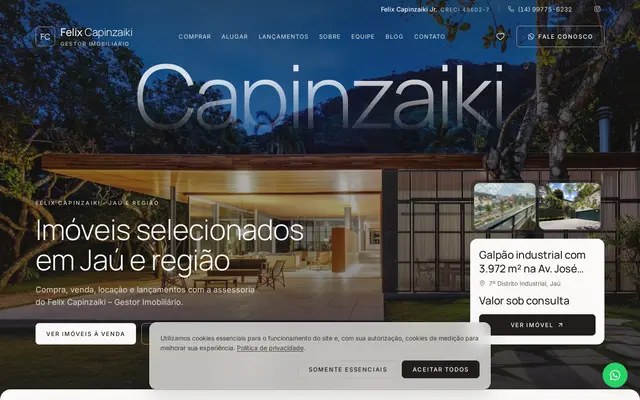
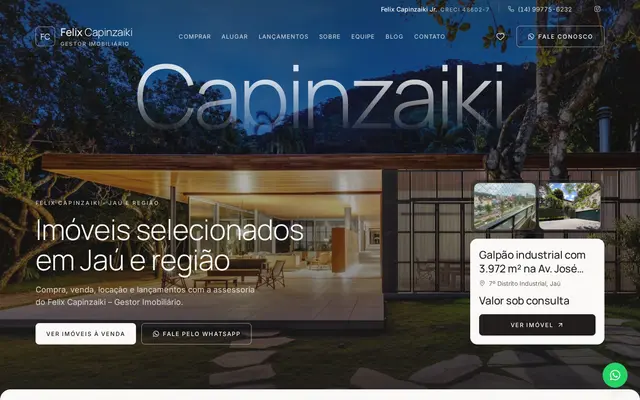
Atualiza prints e páginas do portfólio

Changed region(s): [[0.2188, 0.78, 0.7812, 0.99]]

diff --git a/assets/css/style.css b/assets/css/style.css
@@ -1,1 +1,1 @@
-*,:after,:before{--tw-border-spacing-x:0;--tw-border-spacing-y:0;--tw-translate-x:0;--tw-translate-y:0;--tw-rotate:0;--tw-skew-x:0;--tw-skew-y:0;--tw-scale-x:1;--tw-scale-y:1;--tw-pan-x: ;--tw-pan-y: ;--tw-pinch-zoom: ;--tw-scroll-snap-strictness:proximity;--tw-gradient-from-position: ;--tw-gradient-via-position: ;--tw-gradient-to-position: ;--tw-ordinal: ;--tw-slashed-zero: ;--tw-numeric-figure: ;--tw-numeric-spacing: ;--tw-numeric-fraction: ;--tw-ring-inset: ;--tw-ring-offset-width:0px;--tw-ring-offset-color:#fff;--tw-ring-color:rgba(59,130,246,.5);--tw-ring-offset-shadow:0 0 #0000;--tw-ring-shadow:0 0 #0000;--tw-shadow:0 0 #0000;--tw-shadow-colored:0 0 #0000;--tw-blur: ;--tw-brightness: ;--tw-contrast: ;--tw-grayscale: ;--tw-hue-rotate: ;--tw-invert: ;--tw-saturate: ;--tw-sepia: ;--tw-drop-shadow: ;--tw-backdrop-blur: ;--tw-backdrop-brightness: ;--tw-backdrop-contrast: ;--tw-backdrop-grayscale: ;--tw-backdrop-hue-rotate: ;--tw-backdrop-invert: ;--tw-backdrop-opacity: ;--tw-backdrop-saturate: ;--tw-backdrop-sepia: ;--tw-contain-size: ;--tw-contain-layout: ;--tw-contain-paint: ;--tw-contain-style: }::backdrop{--tw-border-spacing-x:0;--tw-border-spacing-y:0;--tw-translate-x:0;--tw-translate-y:0;--tw-rotate:0;--tw-skew-x:0;--tw-skew-y:0;--tw-scale-x:1;--tw-scale-y:1;--tw-pan-x: ;--tw-pan-y: ;--tw-pinch-zoom: ;--tw-scroll-snap-strictness:proximity;--tw-gradient-from-position: ;--tw-gradient-via-position: ;--tw-gradient-to-position: ;--tw-ordinal: ;--tw-slashed-zero: ;--tw-numeric-figure: ;--tw-numeric-spacing: ;--tw-numeric-fraction: ;--tw-ring-inset: ;--tw-ring-offset-width:0px;--tw-ring-offset-color:#fff;--tw-ring-color:rgba(59,130,246,.5);--tw-ring-offset-shadow:0 0 #0000;--tw-ring-shadow:0 0 #0000;--tw-shadow:0 0 #0000;--tw-shadow-colored:0 0 #0000;--tw-blur: ;--tw-brightness: ;--tw-contrast: ;--tw-grayscale: ;--tw-hue-rotate: ;--tw-invert: ;--tw-saturate: ;--tw-sepia: ;--tw-drop-shadow: ;--tw-backdrop-blur: ;--tw-backdrop-brightness: ;--tw-backdrop-contrast: ;--tw-backdrop-grayscale: ;--tw-backdrop-hue-rotate: ;--tw-backdrop-invert: ;--tw-backdrop-opacity: ;--tw-backdrop-saturate: ;--tw-backdrop-sepia: ;--tw-contain-size: ;--tw-contain-layout: ;--tw-contain-paint: ;--tw-contain-style: }/*! tailwindcss v3.4.17 | MIT License | https://tailwindcss.com*/*,:after,:before{box-sizing:border-box;border:0 solid #e5e7eb}:after,:before{--tw-content:""}:host,html{line-height:1.5;-webkit-text-size-adjust:100%;-moz-tab-size:4;-o-tab-size:4;tab-size:4;font-family:ui-sans-serif,system-ui,sans-serif,Apple Color Emoji,Segoe UI Emoji,Segoe UI Symbol,Noto Color Emoji;font-feature-settings:normal;font-variation-settings:normal;-webkit-tap-highlight-color:transparent}body{margin:0;line-height:inherit}hr{height:0;color:inherit;border-top-width:1px}abbr:where([title]){-webkit-text-decoration:underline dotted;text-decoration:underline dotted}h1,h2,h3,h4,h5,h6{font-size:inherit;font-weight:inherit}a{color:inherit;text-decoration:inherit}b,strong{font-weight:bolder}code,kbd,pre,samp{font-family:ui-monospace,SFMono-Regular,Menlo,Monaco,Consolas,Liberation Mono,Courier New,monospace;font-feature-settings:normal;font-variation-settings:normal;font-size:1em}small{font-size:80%}sub,sup{font-size:75%;line-height:0;position:relative;vertical-align:baseline}sub{bottom:-.25em}sup{top:-.5em}table{text-indent:0;border-color:inherit;border-collapse:collapse}button,input,optgroup,select,textarea{font-family:inherit;font-feature-settings:inherit;font-variation-settings:inherit;font-size:100%;font-weight:inherit;line-height:inherit;letter-spacing:inherit;color:inherit;margin:0;padding:0}button,select{text-transform:none}button,input:where([type=button]),input:where([type=reset]),input:where([type=submit]){-webkit-appearance:button;background-color:transparent;background-image:none}:-moz-focusring{outline:auto}:-moz-ui-invalid{box-shadow:none}progress{vertical-align:baseline}::-webkit-inner-spin-button,::-webkit-outer-spin-button{height:auto}[type=search]{-webkit-appearance:textfield;outline-offset:-2px}::-webkit-search-decoration{-webkit-appearance:none}::-webkit-file-upload-button{-webkit-appearance:button;font:inherit}summary{display:list-item}blockquote,dd,dl,figure,h1,h2,h3,h4,h5,h6,hr,p,pre{margin:0}fieldset{margin:0}fieldset,legend{padding:0}menu,ol,ul{list-style:none;margin:0;padding:0}dialog{padding:0}textarea{resize:vertical}input::-moz-placeholder,textarea::-moz-placeholder{opacity:1;color:#9ca3af}input::placeholder,textarea::placeholder{opacity:1;color:#9ca3af}[role=button],button{cursor:pointer}:disabled{cursor:default}audio,canvas,embed,iframe,img,object,svg,video{display:block;vertical-align:middle}img,video{max-width:100%;height:auto}[hidden]:where(:not([hidden=until-found])){display:none}html{scroll-padding-top:5rem}body{background-color:#fdfbf7;color:#1a3626;font-family:Outfit,sans-serif}h1,h2,h3,h4,h5,h6{font-family:Space Grotesk,sans-serif}.pointer-events-none{pointer-events:none}.fixed{position:fixed}.absolute{position:absolute}.relative{position:relative}.inset-0{inset:0}.-bottom-1{bottom:-.25rem}.-left-24{left:-6rem}.-top-24{top:-6rem}.bottom-0{bottom:0}.left-0{left:0}.left-4{left:1rem}.right-0{right:0}.top-0{top:0}.top-10{top:2.5rem}.top-4{top:1rem}.z-10{z-index:10}.z-20{z-index:20}.z-50{z-index:50}.mx-auto{margin-left:auto;margin-right:auto}.-mr-2{margin-right:-.5rem}.-mt-10{margin-top:-2.5rem}.mb-10{margin-bottom:2.5rem}.mb-12{margin-bottom:3rem}.mb-16{margin-bottom:4rem}.mb-2{margin-bottom:.5rem}.mb-3{margin-bottom:.75rem}.mb-4{margin-bottom:1rem}.mb-6{margin-bottom:1.5rem}.mb-8{margin-bottom:2rem}.ml-4{margin-left:1rem}.mt-1{margin-top:.25rem}.mt-16{margin-top:4rem}.mt-4{margin-top:1rem}.line-clamp-2{overflow:hidden;display:-webkit-box;-webkit-box-orient:vertical;-webkit-line-clamp:2}.block{display:block}.inline-block{display:inline-block}.flex{display:flex}.inline-flex{display:inline-flex}.grid{display:grid}.hidden{display:none}.aspect-\[16\/10\]{aspect-ratio:16/10}.h-0\.5{height:.125rem}.h-10{height:2.5rem}.h-11{height:2.75rem}.h-14{height:3.5rem}.h-16{height:4rem}.h-2{height:.5rem}.h-3{height:.75rem}.h-80{height:20rem}.h-96{height:24rem}.h-\[500px\]{height:500px}.h-full{height:100%}.min-h-\[90vh\]{min-height:90vh}.w-0{width:0}.w-11{width:2.75rem}.w-14{width:3.5rem}.w-16{width:4rem}.w-2{width:.5rem}.w-3{width:.75rem}.w-4\/5{width:80%}.w-80{width:20rem}.w-96{width:24rem}.w-full{width:100%}.max-w-2xl{max-width:42rem}.max-w-3xl{max-width:48rem}.max-w-7xl{max-width:80rem}.translate-y-4{--tw-translate-y:1rem}.rotate-3,.translate-y-4{transform:translate(var(--tw-translate-x),var(--tw-translate-y)) rotate(var(--tw-rotate)) skewX(var(--tw-skew-x)) skewY(var(--tw-skew-y)) scaleX(var(--tw-scale-x)) scaleY(var(--tw-scale-y))}.rotate-3{--tw-rotate:3deg}.transform{transform:translate(var(--tw-translate-x),var(--tw-translate-y)) rotate(var(--tw-rotate)) skewX(var(--tw-skew-x)) skewY(var(--tw-skew-y)) scaleX(var(--tw-scale-x)) scaleY(var(--tw-scale-y))}@keyframes pulse{50%{opacity:.5}}.animate-pulse{animation:pulse 2s cubic-bezier(.4,0,.6,1) infinite}.resize{resize:both}.grid-cols-1{grid-template-columns:repeat(1,minmax(0,1fr))}.flex-col{flex-direction:column}.flex-wrap{flex-wrap:wrap}.items-end{align-items:flex-end}.items-center{align-items:center}.justify-center{justify-content:center}.justify-between{justify-content:space-between}.gap-1{gap:.25rem}.gap-12{gap:3rem}.gap-2{gap:.5rem}.gap-3{gap:.75rem}.gap-4{gap:1rem}.gap-6{gap:1.5rem}.gap-8{gap:2rem}.overflow-hidden{overflow:hidden}.scroll-smooth{scroll-behavior:smooth}.rounded-2xl{border-radius:1rem}.rounded-3xl{border-radius:1.5rem}.rounded-\[2\.5rem\]{border-radius:2.5rem}.rounded-\[3rem\]{border-radius:3rem}.rounded-full{border-radius:9999px}.rounded-xl{border-radius:.75rem}.rounded-t-\[3rem\]{border-top-left-radius:3rem;border-top-right-radius:3rem}.border{border-width:1px}.border-2{border-width:2px}.border-b{border-bottom-width:1px}.border-l-2{border-left-width:2px}.border-t{border-top-width:1px}.border-green-accent\/10{border-color:rgba(163,184,153,.1)}.border-green-accent\/20{border-color:rgba(163,184,153,.2)}.border-green-accent\/30{border-color:rgba(163,184,153,.3)}.border-green-accent\/40{border-color:rgba(163,184,153,.4)}.border-green-accent\/50{border-color:rgba(163,184,153,.5)}.border-green-light{--tw-border-opacity:1;border-color:rgb(44 92 64/var(--tw-border-opacity,1))}.border-green\/20{border-color:rgba(26,54,38,.2)}.border-green\/30{border-color:rgba(26,54,38,.3)}.border-white\/50{border-color:hsla(0,0%,100%,.5)}.bg-cream{--tw-bg-opacity:1;background-color:rgb(253 251 247/var(--tw-bg-opacity,1))}.bg-cream-100{--tw-bg-opacity:1;background-color:rgb(245 242 233/var(--tw-bg-opacity,1))}.bg-cream-200{--tw-bg-opacity:1;background-color:rgb(235 229 213/var(--tw-bg-opacity,1))}.bg-cream-200\/80{background-color:hsla(44,35%,88%,.8)}.bg-cream\/90{background-color:hsla(40,60%,98%,.9)}.bg-green{--tw-bg-opacity:1;background-color:rgb(26 54 38/var(--tw-bg-opacity,1))}.bg-green-400\/80{background-color:rgba(74,222,128,.8)}.bg-green-accent\/20{background-color:rgba(163,184,153,.2)}.bg-green-light{--tw-bg-opacity:1;background-color:rgb(44 92 64/var(--tw-bg-opacity,1))}.bg-green\/10{background-color:rgba(26,54,38,.1)}.bg-green\/5{background-color:rgba(26,54,38,.05)}.bg-red-400\/80{background-color:hsla(0,91%,71%,.8)}.bg-transparent{background-color:transparent}.bg-yellow-400\/80{background-color:rgba(250,204,21,.8)}.bg-gradient-to-b{background-image:linear-gradient(to bottom,var(--tw-gradient-stops))}.bg-gradient-to-t{background-image:linear-gradient(to top,var(--tw-gradient-stops))}.bg-gradient-to-tr{background-image:linear-gradient(to top right,var(--tw-gradient-stops))}.from-cream-100{--tw-gradient-from:#f5f2e9 var(--tw-gradient-from-position);--tw-gradient-to:hsla(45,37%,94%,0) var(--tw-gradient-to-position);--tw-gradient-stops:var(--tw-gradient-from),var(--tw-gradient-to)}.from-green-accent\/20{--tw-gradient-from:rgba(163,184,153,.2) var(--tw-gradient-from-position);--tw-gradient-to:rgba(163,184,153,0) var(--tw-gradient-to-position);--tw-gradient-stops:var(--tw-gradient-from),var(--tw-gradient-to)}.to-cream-100{--tw-gradient-to:#f5f2e9 var(--tw-gradient-to-position)}.to-transparent{--tw-gradient-to:transparent var(--tw-gradient-to-position)}.object-cover{-o-object-fit:cover;object-fit:cover}.object-top{-o-object-position:top;object-position:top}.p-8{padding:2rem}.px-10{padding-left:2.5rem;padding-right:2.5rem}.px-3{padding-left:.75rem;padding-right:.75rem}.px-4{padding-left:1rem;padding-right:1rem}.px-5{padding-left:1.25rem;padding-right:1.25rem}.px-6{padding-left:1.5rem;padding-right:1.5rem}.px-8{padding-left:2rem;padding-right:2rem}.py-1\.5{padding-top:.375rem;padding-bottom:.375rem}.py-12{padding-top:3rem;padding-bottom:3rem}.py-2{padding-top:.5rem;padding-bottom:.5rem}.py-2\.5{padding-top:.625rem;padding-bottom:.625rem}.py-24{padding-top:6rem;padding-bottom:6rem}.py-3{padding-top:.75rem;padding-bottom:.75rem}.py-32{padding-top:8rem;padding-bottom:8rem}.py-4{padding-top:1rem;padding-bottom:1rem}.py-5{padding-top:1.25rem;padding-bottom:1.25rem}.py-6{padding-top:1.5rem;padding-bottom:1.5rem}.py-8{padding-top:2rem;padding-bottom:2rem}.pb-12{padding-bottom:3rem}.pb-16{padding-bottom:4rem}.pb-32{padding-bottom:8rem}.pb-4{padding-bottom:1rem}.pl-6{padding-left:1.5rem}.pt-10{padding-top:2.5rem}.pt-16{padding-top:4rem}.pt-28{padding-top:7rem}.pt-40{padding-top:10rem}.text-center{text-align:center}.font-heading{font-family:Space Grotesk,sans-serif}.text-2xl{font-size:1.5rem;line-height:2rem}.text-4xl{font-size:2.25rem;line-height:2.5rem}.text-5xl{font-size:3rem;line-height:1}.text-lg{font-size:1.125rem;line-height:1.75rem}.text-sm{font-size:.875rem;line-height:1.25rem}.text-xl{font-size:1.25rem;line-height:1.75rem}.text-xs{font-size:.75rem;line-height:1rem}.font-bold{font-weight:700}.font-medium{font-weight:500}.font-semibold{font-weight:600}.uppercase{text-transform:uppercase}.leading-\[1\.1\]{line-height:1.1}.leading-relaxed{line-height:1.625}.tracking-tight{letter-spacing:-.025em}.tracking-wide{letter-spacing:.025em}.tracking-wider{letter-spacing:.05em}.tracking-widest{letter-spacing:.1em}.text-cream{--tw-text-opacity:1;color:rgb(253 251 247/var(--tw-text-opacity,1))}.text-cream\/80{color:hsla(40,60%,98%,.8)}.text-green{--tw-text-opacity:1;color:rgb(26 54 38/var(--tw-text-opacity,1))}.text-green-accent{--tw-text-opacity:1;color:rgb(163 184 153/var(--tw-text-opacity,1))}.text-green-accent\/40{color:rgba(163,184,153,.4)}.text-green-light{--tw-text-opacity:1;color:rgb(44 92 64/var(--tw-text-opacity,1))}.text-green-light\/80{color:rgba(44,92,64,.8)}.text-green\/40{color:rgba(26,54,38,.4)}.text-green\/70{color:rgba(26,54,38,.7)}.text-green\/80{color:rgba(26,54,38,.8)}.antialiased{-webkit-font-smoothing:antialiased;-moz-osx-font-smoothing:grayscale}.opacity-0{opacity:0}.opacity-40{opacity:.4}.opacity-90{opacity:.9}.shadow-2xl{--tw-shadow:0 25px 50px -12px rgba(0,0,0,.25);--tw-shadow-colored:0 25px 50px -12px var(--tw-shadow-color)}.shadow-2xl,.shadow-\[0_-20px_40px_rgba\(0\2c 0\2c 0\2c 0\.03\)\]{box-shadow:var(--tw-ring-offset-shadow,0 0 #0000),var(--tw-ring-shadow,0 0 #0000),var(--tw-shadow)}.shadow-\[0_-20px_40px_rgba\(0\2c 0\2c 0\2c 0\.03\)\]{--tw-shadow:0 -20px 40px rgba(0,0,0,.03);--tw-shadow-colored:0 -20px 40px var(--tw-shadow-color)}.shadow-lg{--tw-shadow:0 10px 15px -3px rgba(0,0,0,.1),0 4px 6px -4px rgba(0,0,0,.1);--tw-shadow-colored:0 10px 15px -3px var(--tw-shadow-color),0 4px 6px -4px var(--tw-shadow-color)}.shadow-lg,.shadow-md{box-shadow:var(--tw-ring-offset-shadow,0 0 #0000),var(--tw-ring-shadow,0 0 #0000),var(--tw-shadow)}.shadow-md{--tw-shadow:0 4px 6px -1px rgba(0,0,0,.1),0 2px 4px -2px rgba(0,0,0,.1);--tw-shadow-colored:0 4px 6px -1px var(--tw-shadow-color),0 2px 4px -2px var(--tw-shadow-color)}.shadow-sm{--tw-shadow:0 1px 2px 0 rgba(0,0,0,.05);--tw-shadow-colored:0 1px 2px 0 var(--tw-shadow-color)}.shadow-sm,.shadow-xl{box-shadow:var(--tw-ring-offset-shadow,0 0 #0000),var(--tw-ring-shadow,0 0 #0000),var(--tw-shadow)}.shadow-xl{--tw-shadow:0 20px 25px -5px rgba(0,0,0,.1),0 8px 10px -6px rgba(0,0,0,.1);--tw-shadow-colored:0 20px 25px -5px var(--tw-shadow-color),0 8px 10px -6px var(--tw-shadow-color)}.shadow-green\/20{--tw-shadow-color:rgba(26,54,38,.2);--tw-shadow:var(--tw-shadow-colored)}.blur-3xl{--tw-blur:blur(64px)}.blur-3xl,.filter{filter:var(--tw-blur) var(--tw-brightness) var(--tw-contrast) var(--tw-grayscale) var(--tw-hue-rotate) var(--tw-invert) var(--tw-saturate) var(--tw-sepia) var(--tw-drop-shadow)}.backdrop-blur{--tw-backdrop-blur:blur(8px)}.backdrop-blur,.backdrop-blur-md{-webkit-backdrop-filter:var(--tw-backdrop-blur) var(--tw-backdrop-brightness) var(--tw-backdrop-contrast) var(--tw-backdrop-grayscale) var(--tw-backdrop-hue-rotate) var(--tw-backdrop-invert) var(--tw-backdrop-opacity) var(--tw-backdrop-saturate) var(--tw-backdrop-sepia);backdrop-filter:var(--tw-backdrop-blur) var(--tw-backdrop-brightness) var(--tw-backdrop-contrast) var(--tw-backdrop-grayscale) var(--tw-backdrop-hue-rotate) var(--tw-backdrop-invert) var(--tw-backdrop-opacity) var(--tw-backdrop-saturate) var(--tw-backdrop-sepia)}.backdrop-blur-md{--tw-backdrop-blur:blur(12px)}.transition-all{transition-property:all;transition-timing-function:cubic-bezier(.4,0,.2,1);transition-duration:.15s}.transition-colors{transition-property:color,background-color,border-color,text-decoration-color,fill,stroke;transition-timing-function:cubic-bezier(.4,0,.2,1);transition-duration:.15s}.transition-opacity{transition-property:opacity;transition-timing-function:cubic-bezier(.4,0,.2,1);transition-duration:.15s}.transition-shadow{transition-property:box-shadow;transition-timing-function:cubic-bezier(.4,0,.2,1);transition-duration:.15s}.transition-transform{transition-property:transform;transition-timing-function:cubic-bezier(.4,0,.2,1);transition-duration:.15s}.delay-100{transition-delay:.1s}.delay-200{transition-delay:.2s}.delay-300{transition-delay:.3s}.duration-300{transition-duration:.3s}.duration-500{transition-duration:.5s}.duration-700{transition-duration:.7s}.ease-out{transition-timing-function:cubic-bezier(0,0,.2,1)}.fade-in-up{animation:fadeInUp .8s ease-out forwards;opacity:0;transform:translateY(20px)}.delay-100{animation-delay:.1s}.delay-200{animation-delay:.2s}.delay-300{animation-delay:.3s}@keyframes fadeInUp{to{opacity:1;transform:translateY(0)}}.project-card:hover .project-image{transform:scale(1.05)}@keyframes scrollSites{0%{transform:translateY(0)}to{transform:translateY(-50%)}}.animate-scroll-sites{animation:scrollSites var(--duracao,30s) linear infinite}.animate-scroll-sites:hover{animation-play-state:paused}@media (prefers-reduced-motion:reduce){html{scroll-behavior:auto}.fade-in-up{opacity:1;transform:none}.animate-scroll-sites,.fade-in-up{animation:none}.project-card:hover .project-image{transform:none}}.selection\:bg-green-light ::-moz-selection{--tw-bg-opacity:1;background-color:rgb(44 92 64/var(--tw-bg-opacity,1))}.selection\:bg-green-light ::selection{--tw-bg-opacity:1;background-color:rgb(44 92 64/var(--tw-bg-opacity,1))}.selection\:text-cream ::-moz-selection{--tw-text-opacity:1;color:rgb(253 251 247/var(--tw-text-opacity,1))}.selection\:text-cream ::selection{--tw-text-opacity:1;color:rgb(253 251 247/var(--tw-text-opacity,1))}.selection\:bg-green-light::-moz-selection{--tw-bg-opacity:1;background-color:rgb(44 92 64/var(--tw-bg-opacity,1))}.selection\:bg-green-light::selection{--tw-bg-opacity:1;background-color:rgb(44 92 64/var(--tw-bg-opacity,1))}.selection\:text-cream::-moz-selection{--tw-text-opacity:1;color:rgb(253 251 247/var(--tw-text-opacity,1))}.selection\:text-cream::selection{--tw-text-opacity:1;color:rgb(253 251 247/var(--tw-text-opacity,1))}.hover\:rotate-6:hover{--tw-rotate:6deg}.hover\:rotate-6:hover,.hover\:scale-105:hover{transform:translate(var(--tw-translate-x),var(--tw-translate-y)) rotate(var(--tw-rotate)) skewX(var(--tw-skew-x)) skewY(var(--tw-skew-y)) scaleX(var(--tw-scale-x)) scaleY(var(--tw-scale-y))}.hover\:scale-105:hover{--tw-scale-x:1.05;--tw-scale-y:1.05}.hover\:bg-green:hover{--tw-bg-opacity:1;background-color:rgb(26 54 38/var(--tw-bg-opacity,1))}.hover\:bg-green-light:hover{--tw-bg-opacity:1;background-color:rgb(44 92 64/var(--tw-bg-opacity,1))}.hover\:bg-green\/5:hover{background-color:rgba(26,54,38,.05)}.hover\:text-cream:hover{--tw-text-opacity:1;color:rgb(253 251 247/var(--tw-text-opacity,1))}.hover\:text-green-light:hover{--tw-text-opacity:1;color:rgb(44 92 64/var(--tw-text-opacity,1))}.hover\:shadow-2xl:hover{--tw-shadow:0 25px 50px -12px rgba(0,0,0,.25);--tw-shadow-colored:0 25px 50px -12px var(--tw-shadow-color)}.hover\:shadow-2xl:hover,.hover\:shadow-xl:hover{box-shadow:var(--tw-ring-offset-shadow,0 0 #0000),var(--tw-ring-shadow,0 0 #0000),var(--tw-shadow)}.hover\:shadow-xl:hover{--tw-shadow:0 20px 25px -5px rgba(0,0,0,.1),0 8px 10px -6px rgba(0,0,0,.1);--tw-shadow-colored:0 20px 25px -5px var(--tw-shadow-color),0 8px 10px -6px var(--tw-shadow-color)}.hover\:shadow-green\/20:hover{--tw-shadow-color:rgba(26,54,38,.2);--tw-shadow:var(--tw-shadow-colored)}.group:hover .group-hover\:w-full{width:100%}.group:hover .group-hover\:translate-x-1{--tw-translate-x:0.25rem}.group:hover .group-hover\:translate-x-1,.group:hover .group-hover\:translate-y-0{transform:translate(var(--tw-translate-x),var(--tw-translate-y)) rotate(var(--tw-rotate)) skewX(var(--tw-skew-x)) skewY(var(--tw-skew-y)) scaleX(var(--tw-scale-x)) scaleY(var(--tw-scale-y))}.group:hover .group-hover\:translate-y-0{--tw-translate-y:0px}.group:hover .group-hover\:bg-transparent{background-color:transparent}.group:hover .group-hover\:text-green-light{--tw-text-opacity:1;color:rgb(44 92 64/var(--tw-text-opacity,1))}.group:hover .group-hover\:opacity-100{opacity:1}@media (min-width:640px){.sm\:grid-cols-2{grid-template-columns:repeat(2,minmax(0,1fr))}.sm\:flex-row{flex-direction:row}.sm\:text-5xl{font-size:3rem;line-height:1}}@media (min-width:768px){.md\:flex{display:flex}.md\:hidden{display:none}.md\:grid-cols-2{grid-template-columns:repeat(2,minmax(0,1fr))}.md\:grid-cols-3{grid-template-columns:repeat(3,minmax(0,1fr))}.md\:flex-row{flex-direction:row}.md\:text-2xl{font-size:1.5rem;line-height:2rem}}@media (min-width:1024px){.lg\:flex{display:flex}.lg\:grid-cols-2{grid-template-columns:repeat(2,minmax(0,1fr))}.lg\:grid-cols-4{grid-template-columns:repeat(4,minmax(0,1fr))}.lg\:gap-12{gap:3rem}.lg\:gap-8{gap:2rem}.lg\:rounded-t-\[5rem\]{border-top-left-radius:5rem;border-top-right-radius:5rem}.lg\:px-12{padding-left:3rem;padding-right:3rem}.lg\:text-2xl{font-size:1.5rem;line-height:2rem}.lg\:text-5xl{font-size:3rem;line-height:1}.lg\:text-6xl{font-size:3.75rem;line-height:1}.lg\:text-7xl{font-size:4.5rem;line-height:1}.lg\:text-xl{font-size:1.25rem;line-height:1.75rem}}
+*,:after,:before{--tw-border-spacing-x:0;--tw-border-spacing-y:0;--tw-translate-x:0;--tw-translate-y:0;--tw-rotate:0;--tw-skew-x:0;--tw-skew-y:0;--tw-scale-x:1;--tw-scale-y:1;--tw-pan-x: ;--tw-pan-y: ;--tw-pinch-zoom: ;--tw-scroll-snap-strictness:proximity;--tw-gradient-from-position: ;--tw-gradient-via-position: ;--tw-gradient-to-position: ;--tw-ordinal: ;--tw-slashed-zero: ;--tw-numeric-figure: ;--tw-numeric-spacing: ;--tw-numeric-fraction: ;--tw-ring-inset: ;--tw-ring-offset-width:0px;--tw-ring-offset-color:#fff;--tw-ring-color:rgba(59,130,246,.5);--tw-ring-offset-shadow:0 0 #0000;--tw-ring-shadow:0 0 #0000;--tw-shadow:0 0 #0000;--tw-shadow-colored:0 0 #0000;--tw-blur: ;--tw-brightness: ;--tw-contrast: ;--tw-grayscale: ;--tw-hue-rotate: ;--tw-invert: ;--tw-saturate: ;--tw-sepia: ;--tw-drop-shadow: ;--tw-backdrop-blur: ;--tw-backdrop-brightness: ;--tw-backdrop-contrast: ;--tw-backdrop-grayscale: ;--tw-backdrop-hue-rotate: ;--tw-backdrop-invert: ;--tw-backdrop-opacity: ;--tw-backdrop-saturate: ;--tw-backdrop-sepia: ;--tw-contain-size: ;--tw-contain-layout: ;--tw-contain-paint: ;--tw-contain-style: }::backdrop{--tw-border-spacing-x:0;--tw-border-spacing-y:0;--tw-translate-x:0;--tw-translate-y:0;--tw-rotate:0;--tw-skew-x:0;--tw-skew-y:0;--tw-scale-x:1;--tw-scale-y:1;--tw-pan-x: ;--tw-pan-y: ;--tw-pinch-zoom: ;--tw-scroll-snap-strictness:proximity;--tw-gradient-from-position: ;--tw-gradient-via-position: ;--tw-gradient-to-position: ;--tw-ordinal: ;--tw-slashed-zero: ;--tw-numeric-figure: ;--tw-numeric-spacing: ;--tw-numeric-fraction: ;--tw-ring-inset: ;--tw-ring-offset-width:0px;--tw-ring-offset-color:#fff;--tw-ring-color:rgba(59,130,246,.5);--tw-ring-offset-shadow:0 0 #0000;--tw-ring-shadow:0 0 #0000;--tw-shadow:0 0 #0000;--tw-shadow-colored:0 0 #0000;--tw-blur: ;--tw-brightness: ;--tw-contrast: ;--tw-grayscale: ;--tw-hue-rotate: ;--tw-invert: ;--tw-saturate: ;--tw-sepia: ;--tw-drop-shadow: ;--tw-backdrop-blur: ;--tw-backdrop-brightness: ;--tw-backdrop-contrast: ;--tw-backdrop-grayscale: ;--tw-backdrop-hue-rotate: ;--tw-backdrop-invert: ;--tw-backdrop-opacity: ;--tw-backdrop-saturate: ;--tw-backdrop-sepia: ;--tw-contain-size: ;--tw-contain-layout: ;--tw-contain-paint: ;--tw-contain-style: }/*! tailwindcss v3.4.17 | MIT License | https://tailwindcss.com*/*,:after,:before{box-sizing:border-box;border:0 solid #e5e7eb}:after,:before{--tw-content:""}:host,html{line-height:1.5;-webkit-text-size-adjust:100%;-moz-tab-size:4;-o-tab-size:4;tab-size:4;font-family:ui-sans-serif,system-ui,sans-serif,Apple Color Emoji,Segoe UI Emoji,Segoe UI Symbol,Noto Color Emoji;font-feature-settings:normal;font-variation-settings:normal;-webkit-tap-highlight-color:transparent}body{margin:0;line-height:inherit}hr{height:0;color:inherit;border-top-width:1px}abbr:where([title]){-webkit-text-decoration:underline dotted;text-decoration:underline dotted}h1,h2,h3,h4,h5,h6{font-size:inherit;font-weight:inherit}a{color:inherit;text-decoration:inherit}b,strong{font-weight:bolder}code,kbd,pre,samp{font-family:ui-monospace,SFMono-Regular,Menlo,Monaco,Consolas,Liberation Mono,Courier New,monospace;font-feature-settings:normal;font-variation-settings:normal;font-size:1em}small{font-size:80%}sub,sup{font-size:75%;line-height:0;position:relative;vertical-align:baseline}sub{bottom:-.25em}sup{top:-.5em}table{text-indent:0;border-color:inherit;border-collapse:collapse}button,input,optgroup,select,textarea{font-family:inherit;font-feature-settings:inherit;font-variation-settings:inherit;font-size:100%;font-weight:inherit;line-height:inherit;letter-spacing:inherit;color:inherit;margin:0;padding:0}button,select{text-transform:none}button,input:where([type=button]),input:where([type=reset]),input:where([type=submit]){-webkit-appearance:button;background-color:transparent;background-image:none}:-moz-focusring{outline:auto}:-moz-ui-invalid{box-shadow:none}progress{vertical-align:baseline}::-webkit-inner-spin-button,::-webkit-outer-spin-button{height:auto}[type=search]{-webkit-appearance:textfield;outline-offset:-2px}::-webkit-search-decoration{-webkit-appearance:none}::-webkit-file-upload-button{-webkit-appearance:button;font:inherit}summary{display:list-item}blockquote,dd,dl,figure,h1,h2,h3,h4,h5,h6,hr,p,pre{margin:0}fieldset{margin:0}fieldset,legend{padding:0}menu,ol,ul{list-style:none;margin:0;padding:0}dialog{padding:0}textarea{resize:vertical}input::-moz-placeholder,textarea::-moz-placeholder{opacity:1;color:#9ca3af}input::placeholder,textarea::placeholder{opacity:1;color:#9ca3af}[role=button],button{cursor:pointer}:disabled{cursor:default}audio,canvas,embed,iframe,img,object,svg,video{display:block;vertical-align:middle}img,video{max-width:100%;height:auto}[hidden]:where(:not([hidden=until-found])){display:none}html{scroll-padding-top:5rem}body{background-color:#fdfbf7;color:#1a3626;font-family:Outfit,sans-serif}h1,h2,h3,h4,h5,h6{font-family:Space Grotesk,sans-serif}.pointer-events-none{pointer-events:none}.fixed{position:fixed}.absolute{position:absolute}.relative{position:relative}.sticky{position:sticky}.inset-0{inset:0}.-bottom-1{bottom:-.25rem}.-left-24{left:-6rem}.-top-24{top:-6rem}.bottom-0{bottom:0}.left-0{left:0}.left-4{left:1rem}.right-0{right:0}.top-0{top:0}.top-10{top:2.5rem}.top-4{top:1rem}.z-10{z-index:10}.z-20{z-index:20}.z-50{z-index:50}.mx-auto{margin-left:auto;margin-right:auto}.-mr-2{margin-right:-.5rem}.-mt-10{margin-top:-2.5rem}.mb-10{margin-bottom:2.5rem}.mb-12{margin-bottom:3rem}.mb-16{margin-bottom:4rem}.mb-2{margin-bottom:.5rem}.mb-3{margin-bottom:.75rem}.mb-4{margin-bottom:1rem}.mb-6{margin-bottom:1.5rem}.mb-8{margin-bottom:2rem}.ml-4{margin-left:1rem}.mt-1{margin-top:.25rem}.mt-16{margin-top:4rem}.mt-4{margin-top:1rem}.line-clamp-2{overflow:hidden;display:-webkit-box;-webkit-box-orient:vertical;-webkit-line-clamp:2}.block{display:block}.inline-block{display:inline-block}.flex{display:flex}.inline-flex{display:inline-flex}.grid{display:grid}.hidden{display:none}.aspect-\[16\/10\]{aspect-ratio:16/10}.h-0\.5{height:.125rem}.h-10{height:2.5rem}.h-11{height:2.75rem}.h-14{height:3.5rem}.h-16{height:4rem}.h-2{height:.5rem}.h-3{height:.75rem}.h-80{height:20rem}.h-96{height:24rem}.h-\[500px\]{height:500px}.h-full{height:100%}.min-h-\[90vh\]{min-height:90vh}.w-0{width:0}.w-11{width:2.75rem}.w-14{width:3.5rem}.w-16{width:4rem}.w-2{width:.5rem}.w-3{width:.75rem}.w-4\/5{width:80%}.w-80{width:20rem}.w-96{width:24rem}.w-full{width:100%}.max-w-2xl{max-width:42rem}.max-w-3xl{max-width:48rem}.max-w-7xl{max-width:80rem}.translate-y-4{--tw-translate-y:1rem}.rotate-3,.translate-y-4{transform:translate(var(--tw-translate-x),var(--tw-translate-y)) rotate(var(--tw-rotate)) skewX(var(--tw-skew-x)) skewY(var(--tw-skew-y)) scaleX(var(--tw-scale-x)) scaleY(var(--tw-scale-y))}.rotate-3{--tw-rotate:3deg}.transform{transform:translate(var(--tw-translate-x),var(--tw-translate-y)) rotate(var(--tw-rotate)) skewX(var(--tw-skew-x)) skewY(var(--tw-skew-y)) scaleX(var(--tw-scale-x)) scaleY(var(--tw-scale-y))}@keyframes pulse{50%{opacity:.5}}.animate-pulse{animation:pulse 2s cubic-bezier(.4,0,.6,1) infinite}.resize{resize:both}.grid-cols-1{grid-template-columns:repeat(1,minmax(0,1fr))}.flex-col{flex-direction:column}.flex-wrap{flex-wrap:wrap}.items-end{align-items:flex-end}.items-center{align-items:center}.justify-center{justify-content:center}.justify-between{justify-content:space-between}.gap-1{gap:.25rem}.gap-12{gap:3rem}.gap-2{gap:.5rem}.gap-3{gap:.75rem}.gap-4{gap:1rem}.gap-6{gap:1.5rem}.gap-8{gap:2rem}.overflow-hidden{overflow:hidden}.scroll-smooth{scroll-behavior:smooth}.rounded-2xl{border-radius:1rem}.rounded-3xl{border-radius:1.5rem}.rounded-\[2\.5rem\]{border-radius:2.5rem}.rounded-\[3rem\]{border-radius:3rem}.rounded-full{border-radius:9999px}.rounded-xl{border-radius:.75rem}.rounded-t-\[3rem\]{border-top-left-radius:3rem;border-top-right-radius:3rem}.border{border-width:1px}.border-2{border-width:2px}.border-b{border-bottom-width:1px}.border-l-2{border-left-width:2px}.border-t{border-top-width:1px}.border-green-accent\/10{border-color:rgba(163,184,153,.1)}.border-green-accent\/20{border-color:rgba(163,184,153,.2)}.border-green-accent\/30{border-color:rgba(163,184,153,.3)}.border-green-accent\/40{border-color:rgba(163,184,153,.4)}.border-green-accent\/50{border-color:rgba(163,184,153,.5)}.border-green-light{--tw-border-opacity:1;border-color:rgb(44 92 64/var(--tw-border-opacity,1))}.border-green\/20{border-color:rgba(26,54,38,.2)}.border-green\/30{border-color:rgba(26,54,38,.3)}.border-white\/50{border-color:hsla(0,0%,100%,.5)}.bg-cream{--tw-bg-opacity:1;background-color:rgb(253 251 247/var(--tw-bg-opacity,1))}.bg-cream-100{--tw-bg-opacity:1;background-color:rgb(245 242 233/var(--tw-bg-opacity,1))}.bg-cream-200{--tw-bg-opacity:1;background-color:rgb(235 229 213/var(--tw-bg-opacity,1))}.bg-cream-200\/80{background-color:hsla(44,35%,88%,.8)}.bg-cream\/90{background-color:hsla(40,60%,98%,.9)}.bg-green{--tw-bg-opacity:1;background-color:rgb(26 54 38/var(--tw-bg-opacity,1))}.bg-green-400\/80{background-color:rgba(74,222,128,.8)}.bg-green-accent\/20{background-color:rgba(163,184,153,.2)}.bg-green-light{--tw-bg-opacity:1;background-color:rgb(44 92 64/var(--tw-bg-opacity,1))}.bg-green\/10{background-color:rgba(26,54,38,.1)}.bg-green\/5{background-color:rgba(26,54,38,.05)}.bg-red-400\/80{background-color:hsla(0,91%,71%,.8)}.bg-transparent{background-color:transparent}.bg-yellow-400\/80{background-color:rgba(250,204,21,.8)}.bg-gradient-to-b{background-image:linear-gradient(to bottom,var(--tw-gradient-stops))}.bg-gradient-to-t{background-image:linear-gradient(to top,var(--tw-gradient-stops))}.bg-gradient-to-tr{background-image:linear-gradient(to top right,var(--tw-gradient-stops))}.from-cream-100{--tw-gradient-from:#f5f2e9 var(--tw-gradient-from-position);--tw-gradient-to:hsla(45,37%,94%,0) var(--tw-gradient-to-position);--tw-gradient-stops:var(--tw-gradient-from),var(--tw-gradient-to)}.from-green-accent\/20{--tw-gradient-from:rgba(163,184,153,.2) var(--tw-gradient-from-position);--tw-gradient-to:rgba(163,184,153,0) var(--tw-gradient-to-position);--tw-gradient-stops:var(--tw-gradient-from),var(--tw-gradient-to)}.to-cream-100{--tw-gradient-to:#f5f2e9 var(--tw-gradient-to-position)}.to-transparent{--tw-gradient-to:transparent var(--tw-gradient-to-position)}.object-cover{-o-object-fit:cover;object-fit:cover}.object-top{-o-object-position:top;object-position:top}.p-8{padding:2rem}.px-10{padding-left:2.5rem;padding-right:2.5rem}.px-3{padding-left:.75rem;padding-right:.75rem}.px-4{padding-left:1rem;padding-right:1rem}.px-5{padding-left:1.25rem;padding-right:1.25rem}.px-6{padding-left:1.5rem;padding-right:1.5rem}.px-8{padding-left:2rem;padding-right:2rem}.py-1\.5{padding-top:.375rem;padding-bottom:.375rem}.py-12{padding-top:3rem;padding-bottom:3rem}.py-2{padding-top:.5rem;padding-bottom:.5rem}.py-2\.5{padding-top:.625rem;padding-bottom:.625rem}.py-24{padding-top:6rem;padding-bottom:6rem}.py-3{padding-top:.75rem;padding-bottom:.75rem}.py-32{padding-top:8rem;padding-bottom:8rem}.py-4{padding-top:1rem;padding-bottom:1rem}.py-5{padding-top:1.25rem;padding-bottom:1.25rem}.py-6{padding-top:1.5rem;padding-bottom:1.5rem}.py-8{padding-top:2rem;padding-bottom:2rem}.pb-12{padding-bottom:3rem}.pb-16{padding-bottom:4rem}.pb-32{padding-bottom:8rem}.pb-4{padding-bottom:1rem}.pl-6{padding-left:1.5rem}.pt-10{padding-top:2.5rem}.pt-16{padding-top:4rem}.pt-28{padding-top:7rem}.pt-40{padding-top:10rem}.text-center{text-align:center}.font-heading{font-family:Space Grotesk,sans-serif}.text-2xl{font-size:1.5rem;line-height:2rem}.text-4xl{font-size:2.25rem;line-height:2.5rem}.text-5xl{font-size:3rem;line-height:1}.text-lg{font-size:1.125rem;line-height:1.75rem}.text-sm{font-size:.875rem;line-height:1.25rem}.text-xl{font-size:1.25rem;line-height:1.75rem}.text-xs{font-size:.75rem;line-height:1rem}.font-bold{font-weight:700}.font-medium{font-weight:500}.font-semibold{font-weight:600}.uppercase{text-transform:uppercase}.leading-\[1\.1\]{line-height:1.1}.leading-relaxed{line-height:1.625}.tracking-tight{letter-spacing:-.025em}.tracking-wide{letter-spacing:.025em}.tracking-wider{letter-spacing:.05em}.tracking-widest{letter-spacing:.1em}.text-cream{--tw-text-opacity:1;color:rgb(253 251 247/var(--tw-text-opacity,1))}.text-cream\/80{color:hsla(40,60%,98%,.8)}.text-green{--tw-text-opacity:1;color:rgb(26 54 38/var(--tw-text-opacity,1))}.text-green-accent{--tw-text-opacity:1;color:rgb(163 184 153/var(--tw-text-opacity,1))}.text-green-accent\/40{color:rgba(163,184,153,.4)}.text-green-light{--tw-text-opacity:1;color:rgb(44 92 64/var(--tw-text-opacity,1))}.text-green-light\/80{color:rgba(44,92,64,.8)}.text-green\/40{color:rgba(26,54,38,.4)}.text-green\/70{color:rgba(26,54,38,.7)}.text-green\/80{color:rgba(26,54,38,.8)}.antialiased{-webkit-font-smoothing:antialiased;-moz-osx-font-smoothing:grayscale}.opacity-0{opacity:0}.opacity-40{opacity:.4}.opacity-90{opacity:.9}.shadow-2xl{--tw-shadow:0 25px 50px -12px rgba(0,0,0,.25);--tw-shadow-colored:0 25px 50px -12px var(--tw-shadow-color)}.shadow-2xl,.shadow-\[0_-20px_40px_rgba\(0\2c 0\2c 0\2c 0\.03\)\]{box-shadow:var(--tw-ring-offset-shadow,0 0 #0000),var(--tw-ring-shadow,0 0 #0000),var(--tw-shadow)}.shadow-\[0_-20px_40px_rgba\(0\2c 0\2c 0\2c 0\.03\)\]{--tw-shadow:0 -20px 40px rgba(0,0,0,.03);--tw-shadow-colored:0 -20px 40px var(--tw-shadow-color)}.shadow-lg{--tw-shadow:0 10px 15px -3px rgba(0,0,0,.1),0 4px 6px -4px rgba(0,0,0,.1);--tw-shadow-colored:0 10px 15px -3px var(--tw-shadow-color),0 4px 6px -4px var(--tw-shadow-color)}.shadow-lg,.shadow-md{box-shadow:var(--tw-ring-offset-shadow,0 0 #0000),var(--tw-ring-shadow,0 0 #0000),var(--tw-shadow)}.shadow-md{--tw-shadow:0 4px 6px -1px rgba(0,0,0,.1),0 2px 4px -2px rgba(0,0,0,.1);--tw-shadow-colored:0 4px 6px -1px var(--tw-shadow-color),0 2px 4px -2px var(--tw-shadow-color)}.shadow-sm{--tw-shadow:0 1px 2px 0 rgba(0,0,0,.05);--tw-shadow-colored:0 1px 2px 0 var(--tw-shadow-color)}.shadow-sm,.shadow-xl{box-shadow:var(--tw-ring-offset-shadow,0 0 #0000),var(--tw-ring-shadow,0 0 #0000),var(--tw-shadow)}.shadow-xl{--tw-shadow:0 20px 25px -5px rgba(0,0,0,.1),0 8px 10px -6px rgba(0,0,0,.1);--tw-shadow-colored:0 20px 25px -5px var(--tw-shadow-color),0 8px 10px -6px var(--tw-shadow-color)}.shadow-green\/20{--tw-shadow-color:rgba(26,54,38,.2);--tw-shadow:var(--tw-shadow-colored)}.blur-3xl{--tw-blur:blur(64px)}.blur-3xl,.filter{filter:var(--tw-blur) var(--tw-brightness) var(--tw-contrast) var(--tw-grayscale) var(--tw-hue-rotate) var(--tw-invert) var(--tw-saturate) var(--tw-sepia) var(--tw-drop-shadow)}.backdrop-blur{--tw-backdrop-blur:blur(8px)}.backdrop-blur,.backdrop-blur-md{-webkit-backdrop-filter:var(--tw-backdrop-blur) var(--tw-backdrop-brightness) var(--tw-backdrop-contrast) var(--tw-backdrop-grayscale) var(--tw-backdrop-hue-rotate) var(--tw-backdrop-invert) var(--tw-backdrop-opacity) var(--tw-backdrop-saturate) var(--tw-backdrop-sepia);backdrop-filter:var(--tw-backdrop-blur) var(--tw-backdrop-brightness) var(--tw-backdrop-contrast) var(--tw-backdrop-grayscale) var(--tw-backdrop-hue-rotate) var(--tw-backdrop-invert) var(--tw-backdrop-opacity) var(--tw-backdrop-saturate) var(--tw-backdrop-sepia)}.backdrop-blur-md{--tw-backdrop-blur:blur(12px)}.transition-all{transition-property:all;transition-timing-function:cubic-bezier(.4,0,.2,1);transition-duration:.15s}.transition-colors{transition-property:color,background-color,border-color,text-decoration-color,fill,stroke;transition-timing-function:cubic-bezier(.4,0,.2,1);transition-duration:.15s}.transition-opacity{transition-property:opacity;transition-timing-function:cubic-bezier(.4,0,.2,1);transition-duration:.15s}.transition-shadow{transition-property:box-shadow;transition-timing-function:cubic-bezier(.4,0,.2,1);transition-duration:.15s}.transition-transform{transition-property:transform;transition-timing-function:cubic-bezier(.4,0,.2,1);transition-duration:.15s}.delay-100{transition-delay:.1s}.delay-200{transition-delay:.2s}.delay-300{transition-delay:.3s}.duration-300{transition-duration:.3s}.duration-500{transition-duration:.5s}.duration-700{transition-duration:.7s}.ease-out{transition-timing-function:cubic-bezier(0,0,.2,1)}.fade-in-up{animation:fadeInUp .8s ease-out forwards;opacity:0;transform:translateY(20px)}.delay-100{animation-delay:.1s}.delay-200{animation-delay:.2s}.delay-300{animation-delay:.3s}@keyframes fadeInUp{to{opacity:1;transform:translateY(0)}}.project-card:hover .project-image{transform:scale(1.05)}@keyframes scrollSites{0%{transform:translateY(0)}to{transform:translateY(-50%)}}.animate-scroll-sites{animation:scrollSites var(--duracao,30s) linear infinite}.animate-scroll-sites:hover{animation-play-state:paused}@media (prefers-reduced-motion:reduce){html{scroll-behavior:auto}.fade-in-up{opacity:1;transform:none}.animate-scroll-sites,.fade-in-up{animation:none}.project-card:hover .project-image{transform:none}}.selection\:bg-green-light ::-moz-selection{--tw-bg-opacity:1;background-color:rgb(44 92 64/var(--tw-bg-opacity,1))}.selection\:bg-green-light ::selection{--tw-bg-opacity:1;background-color:rgb(44 92 64/var(--tw-bg-opacity,1))}.selection\:text-cream ::-moz-selection{--tw-text-opacity:1;color:rgb(253 251 247/var(--tw-text-opacity,1))}.selection\:text-cream ::selection{--tw-text-opacity:1;color:rgb(253 251 247/var(--tw-text-opacity,1))}.selection\:bg-green-light::-moz-selection{--tw-bg-opacity:1;background-color:rgb(44 92 64/var(--tw-bg-opacity,1))}.selection\:bg-green-light::selection{--tw-bg-opacity:1;background-color:rgb(44 92 64/var(--tw-bg-opacity,1))}.selection\:text-cream::-moz-selection{--tw-text-opacity:1;color:rgb(253 251 247/var(--tw-text-opacity,1))}.selection\:text-cream::selection{--tw-text-opacity:1;color:rgb(253 251 247/var(--tw-text-opacity,1))}.hover\:rotate-6:hover{--tw-rotate:6deg}.hover\:rotate-6:hover,.hover\:scale-105:hover{transform:translate(var(--tw-translate-x),var(--tw-translate-y)) rotate(var(--tw-rotate)) skewX(var(--tw-skew-x)) skewY(var(--tw-skew-y)) scaleX(var(--tw-scale-x)) scaleY(var(--tw-scale-y))}.hover\:scale-105:hover{--tw-scale-x:1.05;--tw-scale-y:1.05}.hover\:bg-green:hover{--tw-bg-opacity:1;background-color:rgb(26 54 38/var(--tw-bg-opacity,1))}.hover\:bg-green-light:hover{--tw-bg-opacity:1;background-color:rgb(44 92 64/var(--tw-bg-opacity,1))}.hover\:bg-green\/5:hover{background-color:rgba(26,54,38,.05)}.hover\:text-cream:hover{--tw-text-opacity:1;color:rgb(253 251 247/var(--tw-text-opacity,1))}.hover\:text-green-light:hover{--tw-text-opacity:1;color:rgb(44 92 64/var(--tw-text-opacity,1))}.hover\:shadow-2xl:hover{--tw-shadow:0 25px 50px -12px rgba(0,0,0,.25);--tw-shadow-colored:0 25px 50px -12px var(--tw-shadow-color)}.hover\:shadow-2xl:hover,.hover\:shadow-xl:hover{box-shadow:var(--tw-ring-offset-shadow,0 0 #0000),var(--tw-ring-shadow,0 0 #0000),var(--tw-shadow)}.hover\:shadow-xl:hover{--tw-shadow:0 20px 25px -5px rgba(0,0,0,.1),0 8px 10px -6px rgba(0,0,0,.1);--tw-shadow-colored:0 20px 25px -5px var(--tw-shadow-color),0 8px 10px -6px var(--tw-shadow-color)}.hover\:shadow-green\/20:hover{--tw-shadow-color:rgba(26,54,38,.2);--tw-shadow:var(--tw-shadow-colored)}.group:hover .group-hover\:w-full{width:100%}.group:hover .group-hover\:translate-x-1{--tw-translate-x:0.25rem}.group:hover .group-hover\:translate-x-1,.group:hover .group-hover\:translate-y-0{transform:translate(var(--tw-translate-x),var(--tw-translate-y)) rotate(var(--tw-rotate)) skewX(var(--tw-skew-x)) skewY(var(--tw-skew-y)) scaleX(var(--tw-scale-x)) scaleY(var(--tw-scale-y))}.group:hover .group-hover\:translate-y-0{--tw-translate-y:0px}.group:hover .group-hover\:bg-transparent{background-color:transparent}.group:hover .group-hover\:text-green-light{--tw-text-opacity:1;color:rgb(44 92 64/var(--tw-text-opacity,1))}.group:hover .group-hover\:opacity-100{opacity:1}@media (min-width:640px){.sm\:grid-cols-2{grid-template-columns:repeat(2,minmax(0,1fr))}.sm\:flex-row{flex-direction:row}.sm\:text-5xl{font-size:3rem;line-height:1}}@media (min-width:768px){.md\:flex{display:flex}.md\:hidden{display:none}.md\:grid-cols-2{grid-template-columns:repeat(2,minmax(0,1fr))}.md\:grid-cols-3{grid-template-columns:repeat(3,minmax(0,1fr))}.md\:flex-row{flex-direction:row}.md\:text-2xl{font-size:1.5rem;line-height:2rem}}@media (min-width:1024px){.lg\:flex{display:flex}.lg\:grid-cols-2{grid-template-columns:repeat(2,minmax(0,1fr))}.lg\:grid-cols-4{grid-template-columns:repeat(4,minmax(0,1fr))}.lg\:gap-12{gap:3rem}.lg\:gap-8{gap:2rem}.lg\:rounded-t-\[5rem\]{border-top-left-radius:5rem;border-top-right-radius:5rem}.lg\:px-12{padding-left:3rem;padding-right:3rem}.lg\:text-2xl{font-size:1.5rem;line-height:2rem}.lg\:text-5xl{font-size:3rem;line-height:1}.lg\:text-6xl{font-size:3.75rem;line-height:1}.lg\:text-7xl{font-size:4.5rem;line-height:1}.lg\:text-xl{font-size:1.25rem;line-height:1.75rem}}

diff --git a/index.html b/index.html
@@ -42,7 +42,7 @@
     <link rel="stylesheet" href="https://cdn.jsdelivr.net/npm/@phosphor-icons/web@2.1.2/src/regular/style.css">
 
     <!-- CSS gerado pelo Tailwind (npm run build) -->
-    <link rel="stylesheet" href="assets/css/style.css?v=a017ebd0">
+    <link rel="stylesheet" href="assets/css/style.css?v=920aef86">
 </head>
 <body class="antialiased selection:bg-green-light selection:text-cream">
 

diff --git a/projetos.html b/projetos.html
@@ -42,7 +42,7 @@
     <link rel="stylesheet" href="https://cdn.jsdelivr.net/npm/@phosphor-icons/web@2.1.2/src/regular/style.css">
 
     <!-- CSS gerado pelo Tailwind (npm run build) -->
-    <link rel="stylesheet" href="assets/css/style.css?v=a017ebd0">
+    <link rel="stylesheet" href="assets/css/style.css?v=920aef86">
 </head>
 <body class="antialiased selection:bg-green-light selection:text-cream">
 
